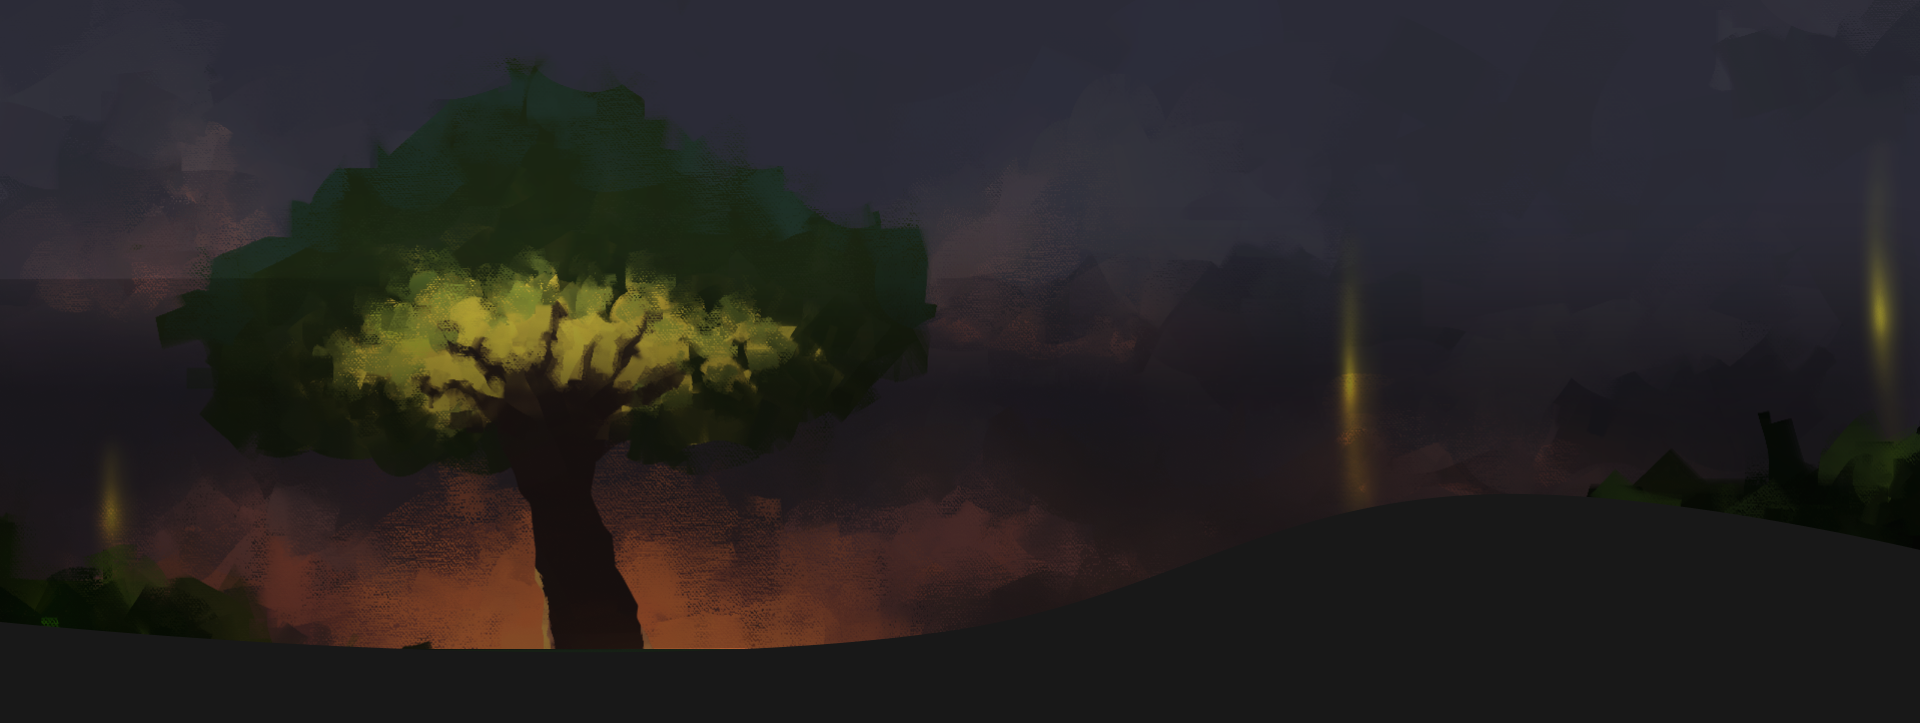
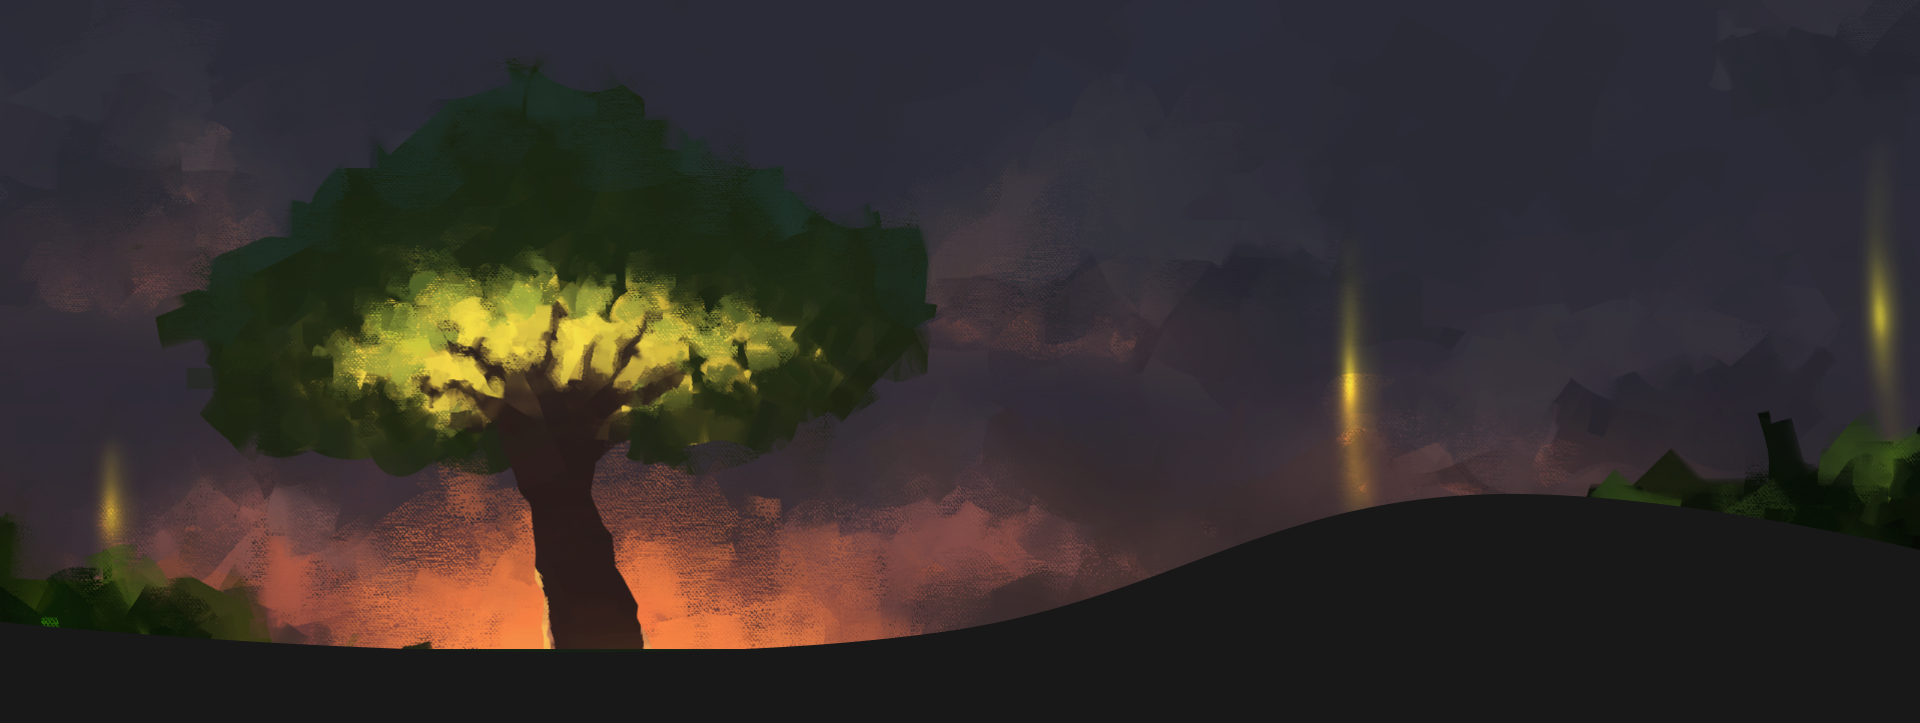
Added Forest Log Page Animations

Changed region(s): [[0.0, 0.3956, 0.9062, 0.9129], [0.9375, 0.3956, 1.0, 0.6694]]

diff --git a/src/components/ForestLog.tsx b/src/components/ForestLog.tsx
@@ -2,6 +2,7 @@
 
 import Link from "next/link";
 import { useEffect, useState } from "react";
+import { motion, type Variants } from "framer-motion";
 import { supabase } from "../../lib/supabase";
 import CreateLogModal from "@/components/CreateLogModal";
 import AuthModal from "@/components/AuthModal";
@@ -19,6 +20,76 @@ type Category = {
   name: string;
 };
 
+const heroVariants: Variants = {
+  hidden: { opacity: 0, y: 30 },
+  visible: {
+    opacity: 1,
+    y: 0,
+    transition: {
+      duration: 0.7,
+      ease: [0.25, 0.1, 0.25, 1],
+    },
+  },
+};
+
+const contentVariants: Variants = {
+  hidden: { opacity: 0 },
+  visible: {
+    opacity: 1,
+    transition: {
+      staggerChildren: 0.12,
+      delayChildren: 0.1,
+    },
+  },
+};
+
+const filterRowVariants: Variants = {
+  hidden: { opacity: 0, y: 18 },
+  visible: {
+    opacity: 1,
+    y: 0,
+    transition: {
+      duration: 0.55,
+      ease: [0.25, 0.1, 0.25, 1],
+    },
+  },
+};
+
+const cardGridVariants: Variants = {
+  hidden: { opacity: 0 },
+  visible: {
+    opacity: 1,
+    transition: {
+      staggerChildren: 0.08,
+    },
+  },
+};
+
+const cardVariants: Variants = {
+  hidden: { opacity: 0, y: 24, scale: 0.98 },
+  visible: {
+    opacity: 1,
+    y: 0,
+    scale: 1,
+    transition: {
+      duration: 0.45,
+      ease: [0.25, 0.1, 0.25, 1],
+    },
+  },
+};
+
+const emptyVariants: Variants = {
+  hidden: { opacity: 0, y: 15 },
+  visible: {
+    opacity: 1,
+    y: 0,
+    transition: {
+      duration: 0.5,
+      ease: [0.25, 0.1, 0.25, 1],
+    },
+  },
+};
+
 export default function ForestLog() {
   const [logs, setLogs] = useState<Log[]>([]);
   const [loading, setLoading] = useState(true);
@@ -30,22 +101,20 @@ export default function ForestLog() {
   const [showAuthModal, setShowAuthModal] = useState(false);
 
   const addNewLog = (newLog: Log) => {
-  setLogs((prev) => [newLog, ...prev]);
+    setLogs((prev) => [newLog, ...prev]);
   };
 
   useEffect(() => {
-  const { data: listener } = supabase.auth.onAuthStateChange(() => {
-    // DO NOTHING UI-RELATED HERE
-    // only logging or syncing if needed
-  });
+    const { data: listener } = supabase.auth.onAuthStateChange(() => {
+      // keep UI stable; no action needed here
+    });
 
-  return () => {
-    listener.subscription.unsubscribe();
-  };
+    return () => {
+      listener.subscription.unsubscribe();
+    };
   }, []);
 
   // FETCH CATEGORIES
-
   useEffect(() => {
     const fetchCategories = async () => {
       const { data } = await supabase
@@ -100,14 +169,16 @@ export default function ForestLog() {
   }, []);
 
   const handleCreateClick = async () => {
-  const { data: { session } } = await supabase.auth.getSession();
+    const {
+      data: { session },
+    } = await supabase.auth.getSession();
 
-  if (!session) {
-    setShowAuthModal(true);
-    return;
-  }
+    if (!session) {
+      setShowAuthModal(true);
+      return;
+    }
 
-  setShowCreateLog(true);
+    setShowCreateLog(true);
   };
 
   const filteredLogs =
@@ -117,65 +188,100 @@ export default function ForestLog() {
 
   return (
     <div className="container-fluid forestLogContainer">
-
       {/* HERO */}
-      <section className="forestLogHero">
-        <div className="heroText">
+      <motion.section
+        className="forestLogHero"
+        initial="hidden"
+        animate="visible"
+        variants={heroVariants}
+      >
+        <motion.div className="heroText" variants={heroVariants}>
           <h1>Forest Logs</h1>
           <p>Restore the forest. Rewrite tomorrow.</p>
-        </div>
-      </section>
+        </motion.div>
+      </motion.section>
 
       {/* CONTENT */}
-      <section className="forestLogContent">
-
+      <motion.section
+        className="forestLogContent"
+        initial="hidden"
+        whileInView="visible"
+        viewport={{ once: true, amount: 0.15 }}
+        variants={contentVariants}
+      >
         {/* FILTERS */}
-        <div className="forestLogFilters">
-
+        <motion.div className="forestLogFilters" variants={filterRowVariants}>
           <div className="leftFilters">
-
-            <button
-              className={`ForGuarButtons ${selectedCategory === "all" ? "activeFilter" : ""}`}
+            <motion.button
+              className={`ForGuarButtons ${
+                selectedCategory === "all" ? "activeFilter" : ""
+              }`}
               onClick={() => setSelectedCategory("all")}
+              whileHover={{ y: -2, scale: 1.02 }}
+              whileTap={{ scale: 0.98 }}
             >
               All
-            </button>
+            </motion.button>
 
             {categories.map((cat) => (
-              <button
+              <motion.button
                 key={cat.id}
                 className={`ForGuarButtons ${
                   selectedCategory === cat.name ? "activeFilter" : ""
                 }`}
                 onClick={() => setSelectedCategory(cat.name)}
+                whileHover={{ y: -2, scale: 1.02 }}
+                whileTap={{ scale: 0.98 }}
               >
                 {cat.name}
-              </button>
+              </motion.button>
             ))}
-
           </div>
 
-          <button
+          <motion.button
             className="ForGuarButtons createLogButton"
             onClick={handleCreateClick}
+            whileHover={{ y: -2, scale: 1.03 }}
+            whileTap={{ scale: 0.98 }}
           >
             + Create Log
-          </button>
+          </motion.button>
+        </motion.div>
 
-        </div>
-
-        {/* CONTENT */}
+        {/* CONTENT STATES */}
         {loading ? (
-          <p style={{ color: "white" }}>Loading logs...</p>
+          <motion.p
+            style={{ color: "white" }}
+            initial="hidden"
+            animate="visible"
+            variants={emptyVariants}
+          >
+            Loading logs...
+          </motion.p>
         ) : filteredLogs.length === 0 ? (
-          <div className="emptyLogs">
+          <motion.div
+            className="emptyLogs"
+            initial="hidden"
+            animate="visible"
+            variants={emptyVariants}
+          >
             <h2>No forest whispers found 🌿</h2>
             <p>Try another category or create a new log.</p>
-          </div>
+          </motion.div>
         ) : (
-          <div className="logsGrid">
+          <motion.div
+            className="logsGrid"
+            initial="hidden"
+            animate="visible"
+            variants={cardGridVariants}
+          >
             {filteredLogs.map((log) => (
-              <div className="forestLogCard" key={log.id}>
+              <motion.div
+                className="forestLogCard"
+                key={log.id}
+                variants={cardVariants}
+                whileHover={{ y: -6, scale: 1.01 }}
+              >
                 <h2>{log.title}</h2>
 
                 <p className="author">
@@ -187,12 +293,11 @@ export default function ForestLog() {
                 <Link href={`/forest-log/${log.id}`}>
                   <button className="viewLogButton">View Log</button>
                 </Link>
-              </div>
+              </motion.div>
             ))}
-          </div>
+          </motion.div>
         )}
-
-      </section>
+      </motion.section>
 
       {/* MODALS */}
       {showCreateLog && (
@@ -202,10 +307,7 @@ export default function ForestLog() {
         />
       )}
 
-      {showAuthModal && (
-        <AuthModal onClose={() => setShowAuthModal(false)} />
-      )}
-
+      {showAuthModal && <AuthModal onClose={() => setShowAuthModal(false)} />}
     </div>
   );
 }